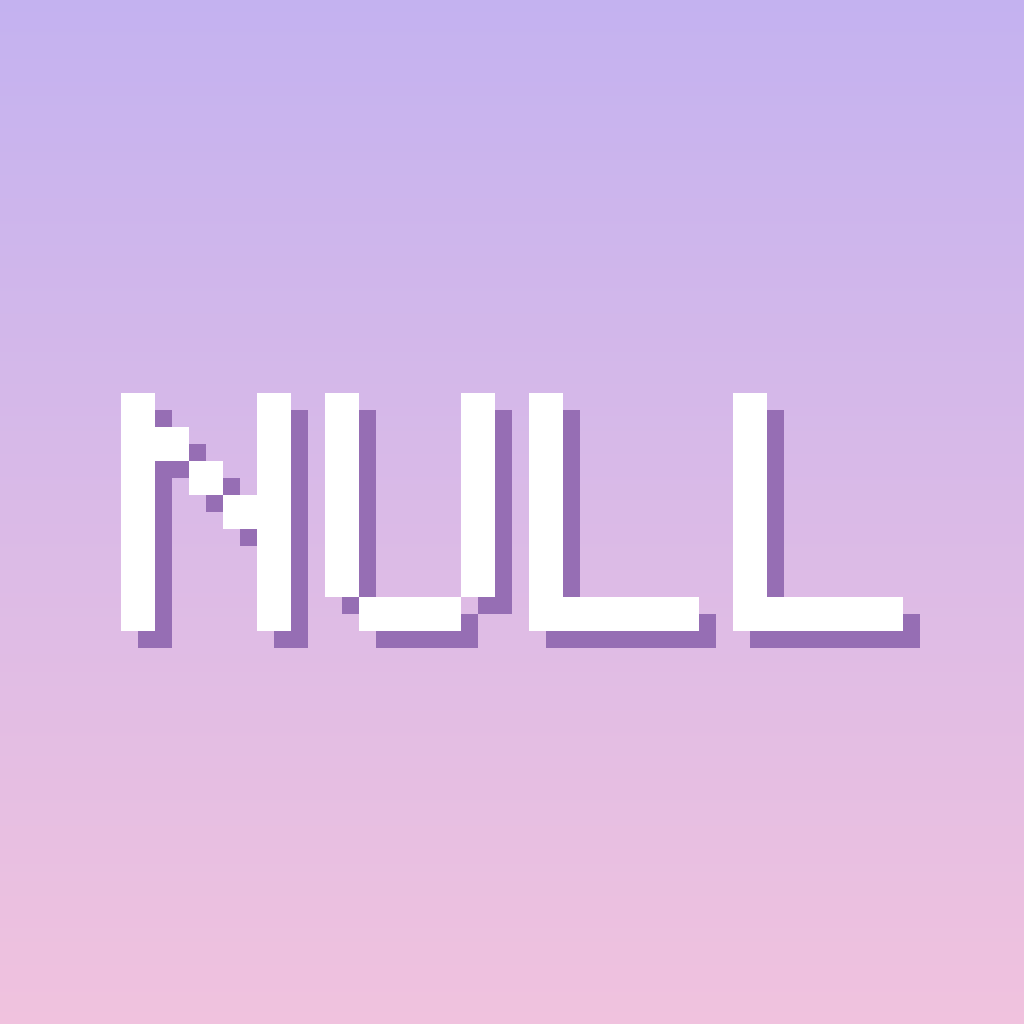
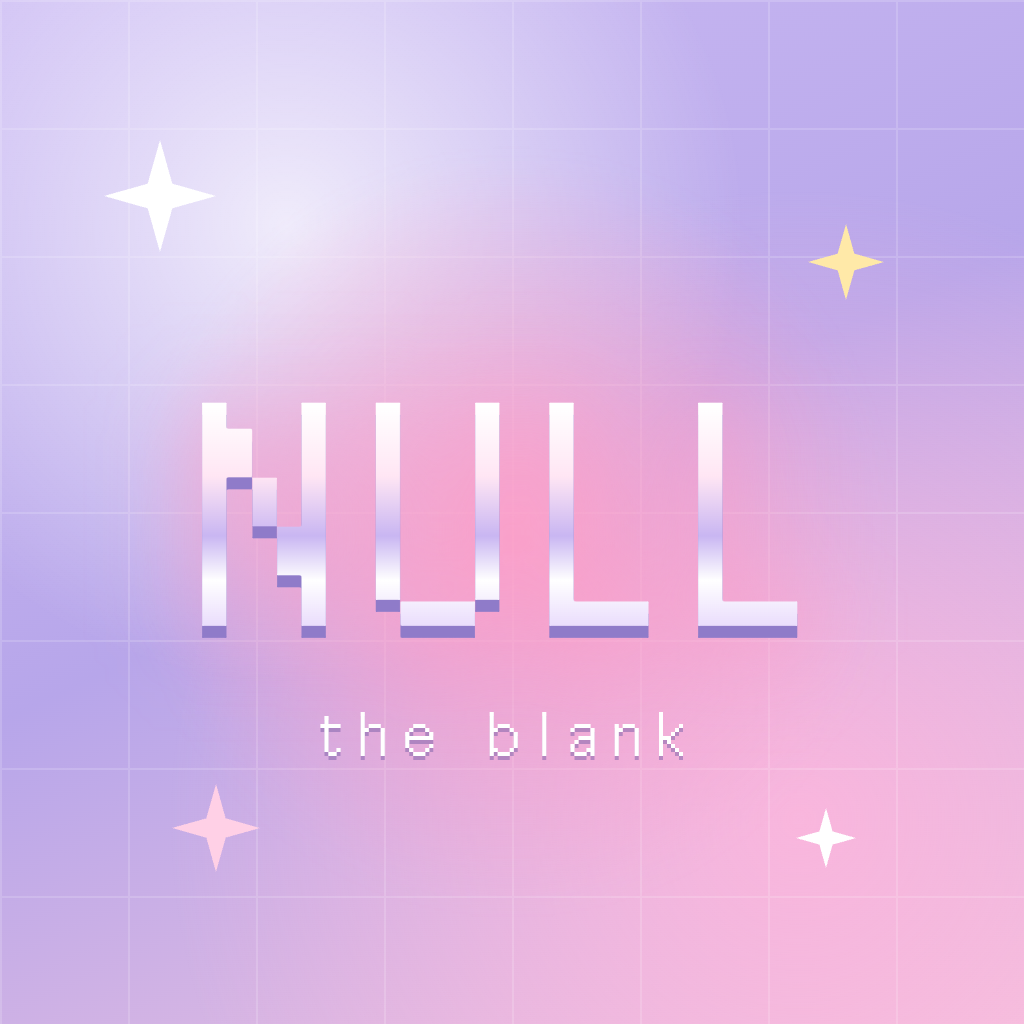
앱 아이콘을 새로 만든 것으로 바꾼다
받은 세트를 넣었다. icon.png는 iOS·구형 안드로이드용이고, 안드로이드
적응형 아이콘은 앞뒤가 따로다 — 전경(NULL 글자, 투명 배경)과 배경
(그라데이션)을 각각 걸어야 런처가 기울일 때 두 겹이 어긋나며 움직인다.
app.json에 backgroundImage를 추가했다. backgroundColor는 이미지가 못
읽혔을 때를 위해 남겨둔다.

안드로이드는 아이콘 가운데 66.7%만 보여주고 나머지를 잘라낸다.
전경을 마스크 씌워 확인했다 — NULL과 the blank 둘 다 원 안에 들어온다.

그라데이션 PNG라 파일이 컸다. 알파가 필요 없는 두 장을 RGB로 낮추고
다시 압축해서 2.5MB에서 1.3MB로 줄였다.

icons-alt/에 안 쓰는 후보 셋을 같이 둔다 — 빈칸+커서, NULL 두 줄,
말풍선. 바꾸고 싶을 때 덮어쓰면 되게 크기와 안전 영역을 맞춰놨다.

diff --git a/app/assets/icons-alt/README.md b/app/assets/icons-alt/README.md
@@ -1,0 +1,14 @@
+# 안 쓰는 아이콘 후보
+
+지금 쓰는 건 `../icon.png` / `../adaptive-icon.png` / `../adaptive-bg.png` 다.
+아래는 만들어만 두고 안 쓰는 것들 — 바꾸고 싶으면 `../icon.png`에 덮어쓰면 된다.
+전부 1024×1024, 앱 팔레트(#5d5490 · #ff7fae · 라벤더→핑크) 그대로다.
+
+| 파일 | 무엇 |
+|---|---|
+| `blank-cursor.png` | 점선 빈칸 + 커서. 등록 화면의 □□을 그대로 올린 것 |
+| `null-stacked.png` | NULL을 두 줄로 접은 것. 한 줄로 쓰면 홈 화면 크기에서 획이 뭉갠다 |
+| `bubble.png` | 말풍선 + 커서 + 말줄임. 한눈에 메신저인 걸 알린다 |
+
+안드로이드는 아이콘을 동그랗게 잘라낸다(가운데 66.7%만 보인다). 셋 다 그
+안쪽에 들어오게 그렸다 — 새로 만들 때도 가장자리에 뭘 두면 안 된다.
